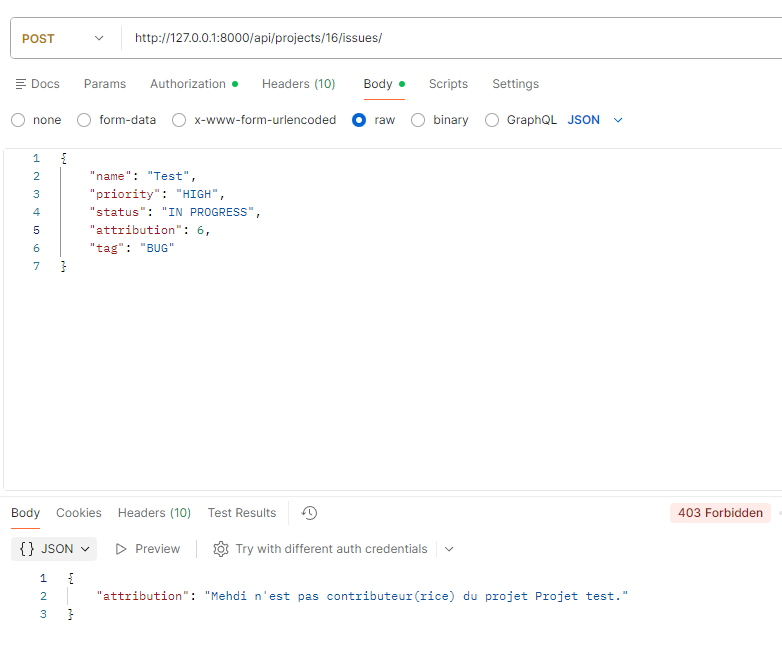
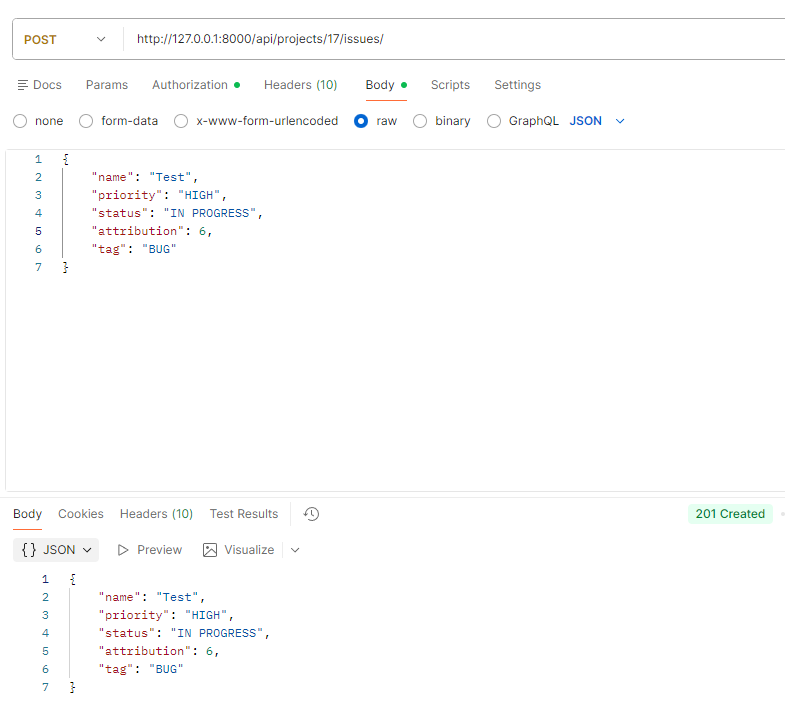
Modification : update readme.md and permissions

diff --git a/contribution/permissions.py b/contribution/permissions.py
@@ -97,17 +97,22 @@ class CustomPermissionOrAdmin(BasePermission):
             if project:
                 return self._is_contributor(user=request.user, project=project)
 
-        if view.action == "create":
-            project = self._get_project_from_view(view=view)
-            if project and view.basename == "issue":
-                assigned_user = self._get_assigned_user_from_request(request)
-                if not self._is_contributor(user=assigned_user, project=project):
+        if view.action != "create" or view.basename != "issue":
+            return True
 
-                    raise PermissionDenied({"attribution": f"{assigned_user} n'est pas "
-                                                           f"contributeur(rice) du projet "
-                                                           f"{project}."})
+        project = self._get_project_from_view(view)
+        if not project:
+            return False
 
-                return self._is_contributor(user=request.user, project=project)
+        if not self._is_contributor(request.user, project):
+            return False
+
+        assigned_user = self._get_assigned_user_from_request(request)
+
+        if not self._is_contributor(assigned_user, project):
+            raise PermissionDenied({
+                "attribution": f"{assigned_user} n'est pas contributeur(rice) du projet {project}."
+            })
 
         return True
 

diff --git a/README.md b/README.md
@@ -223,8 +223,9 @@ Poetry will read the `poetry.lock` file to know which dependencies to install
     <img src="docs/screenshots/get_issue_detail_with_comments_screenshot.png" width="auto" style="border: 1px solid grey; border-radius: 10px;">
 </p>
 
-- POST issue fails
+- POST issue
 <p align="center">
+    <img src="docs/screenshots/post_project_issue_failed_screenshot.png" width="auto" style="border: 1px solid grey; border-radius: 10px;">
     <img src="docs/screenshots/post_project_issue_screenshot.png" width="auto" style="border: 1px solid grey; border-radius: 10px;">
 </p>
 
